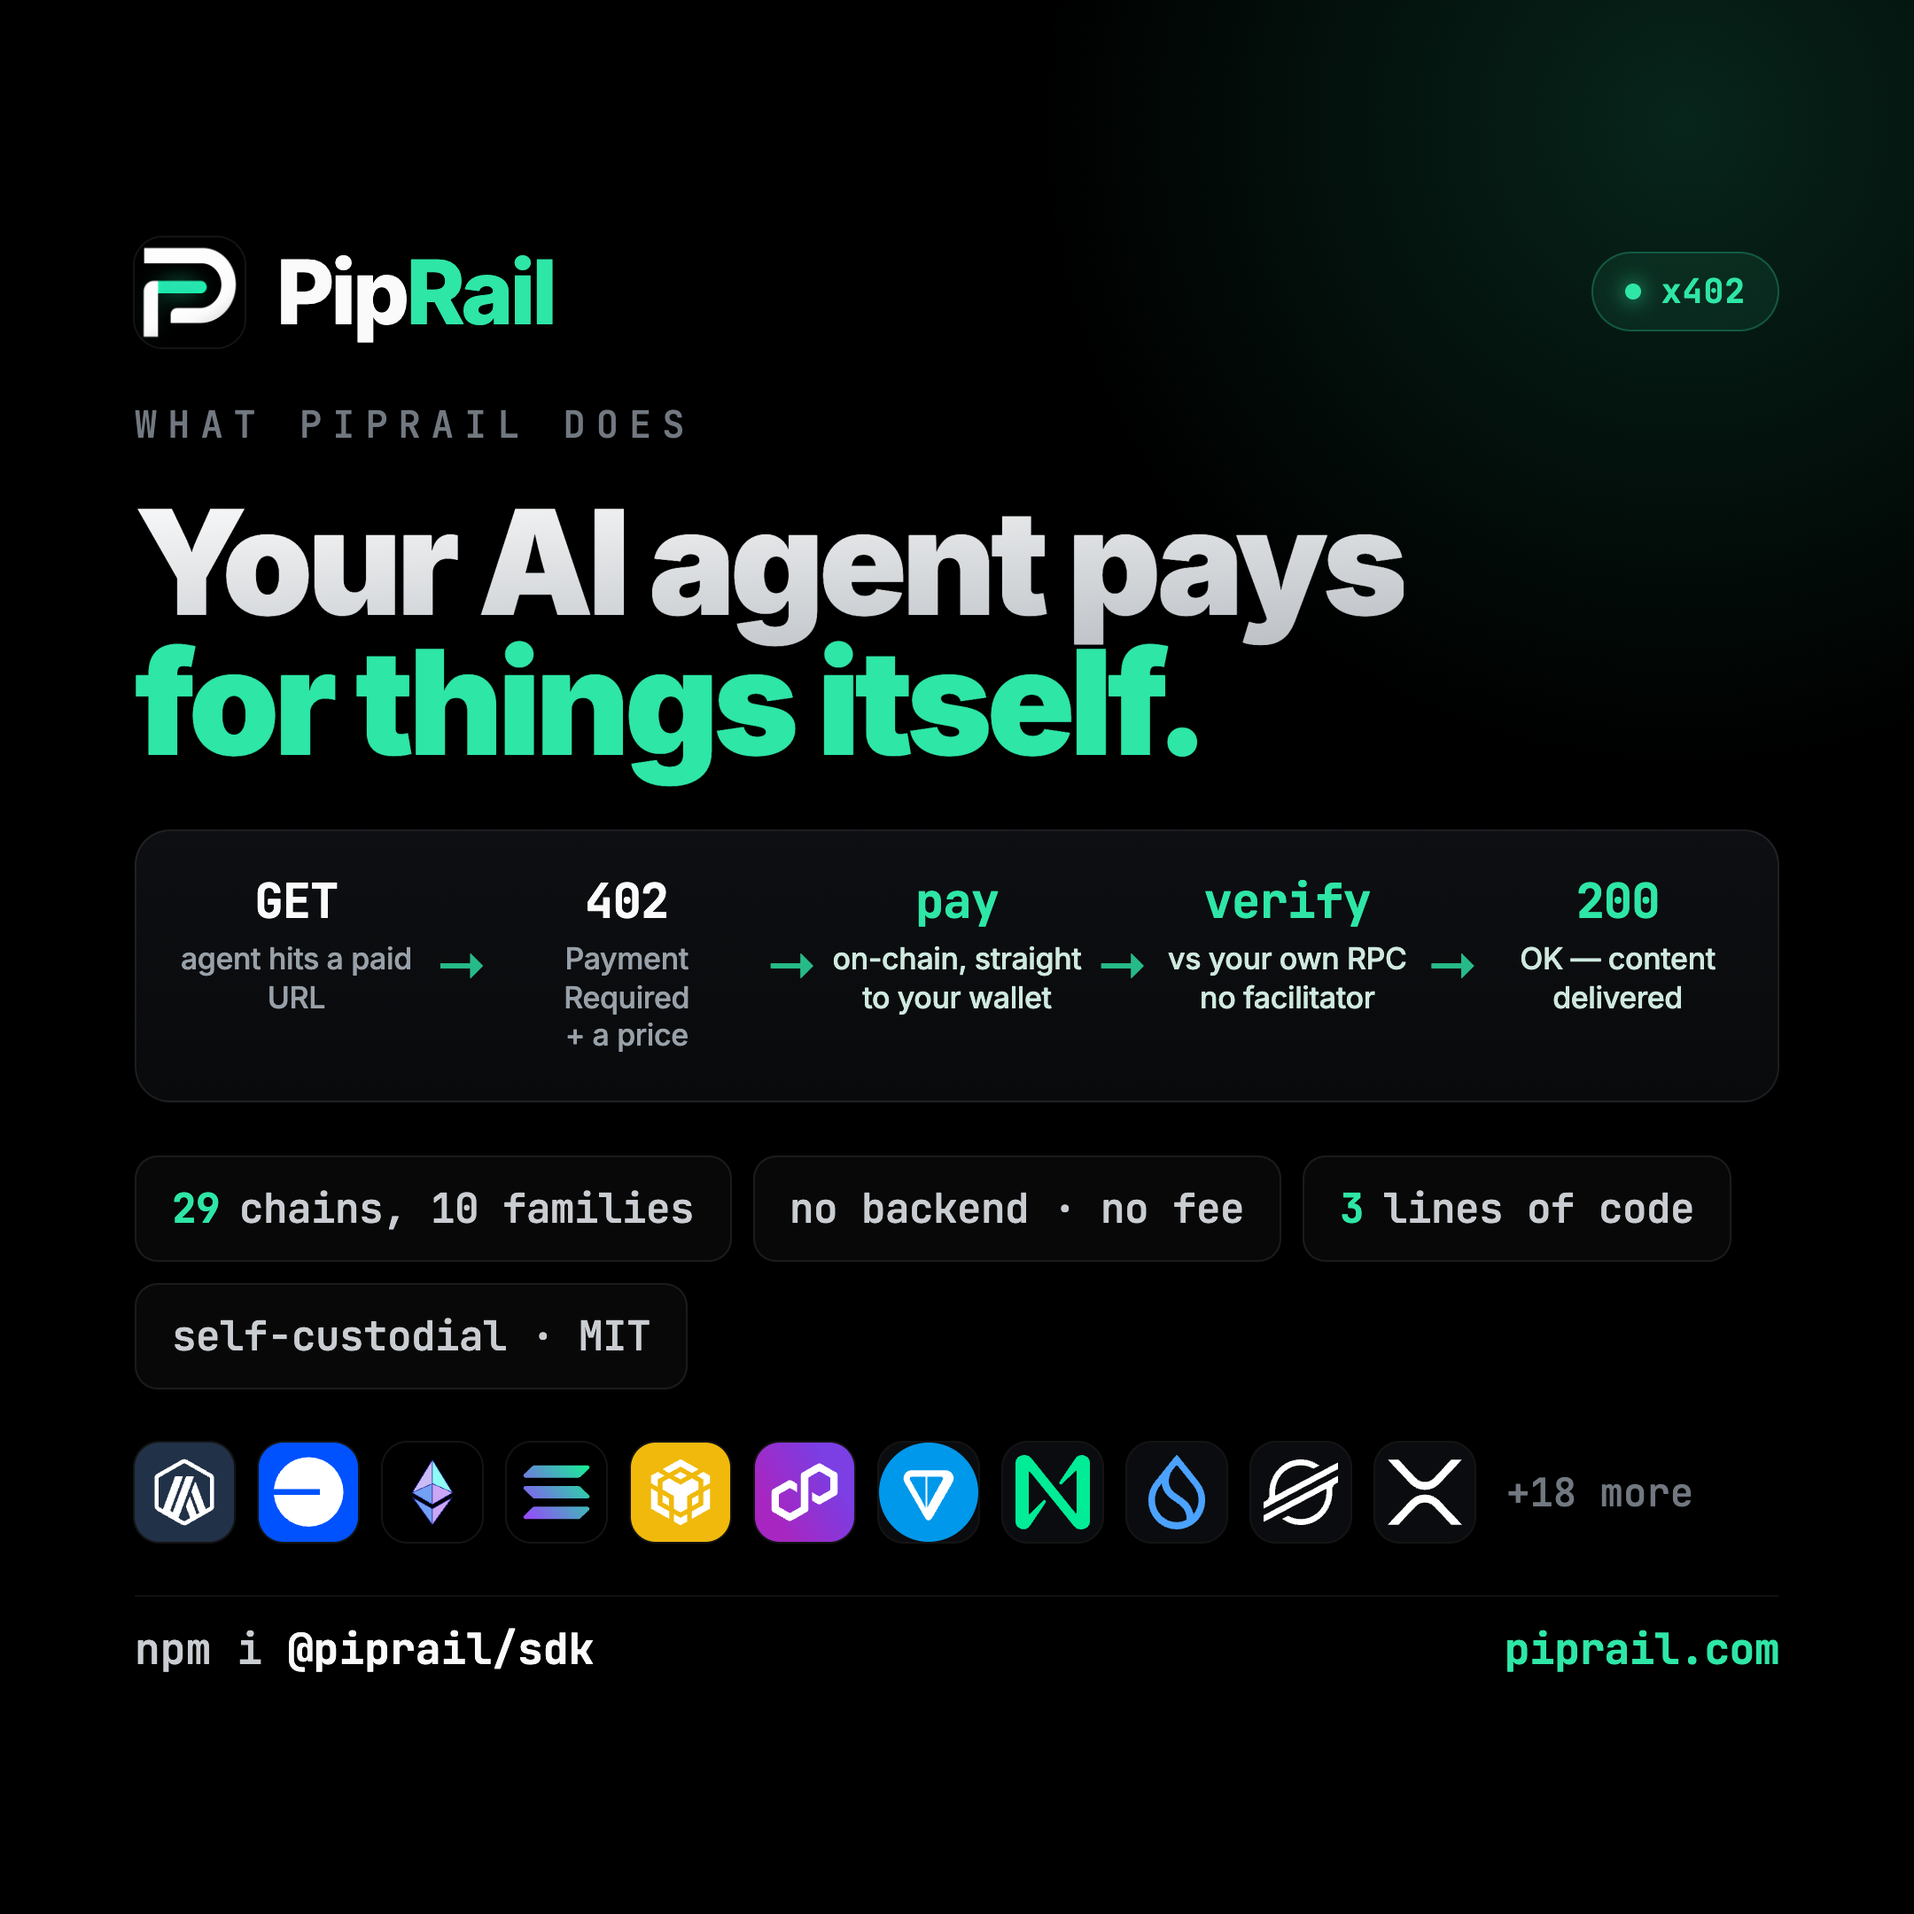
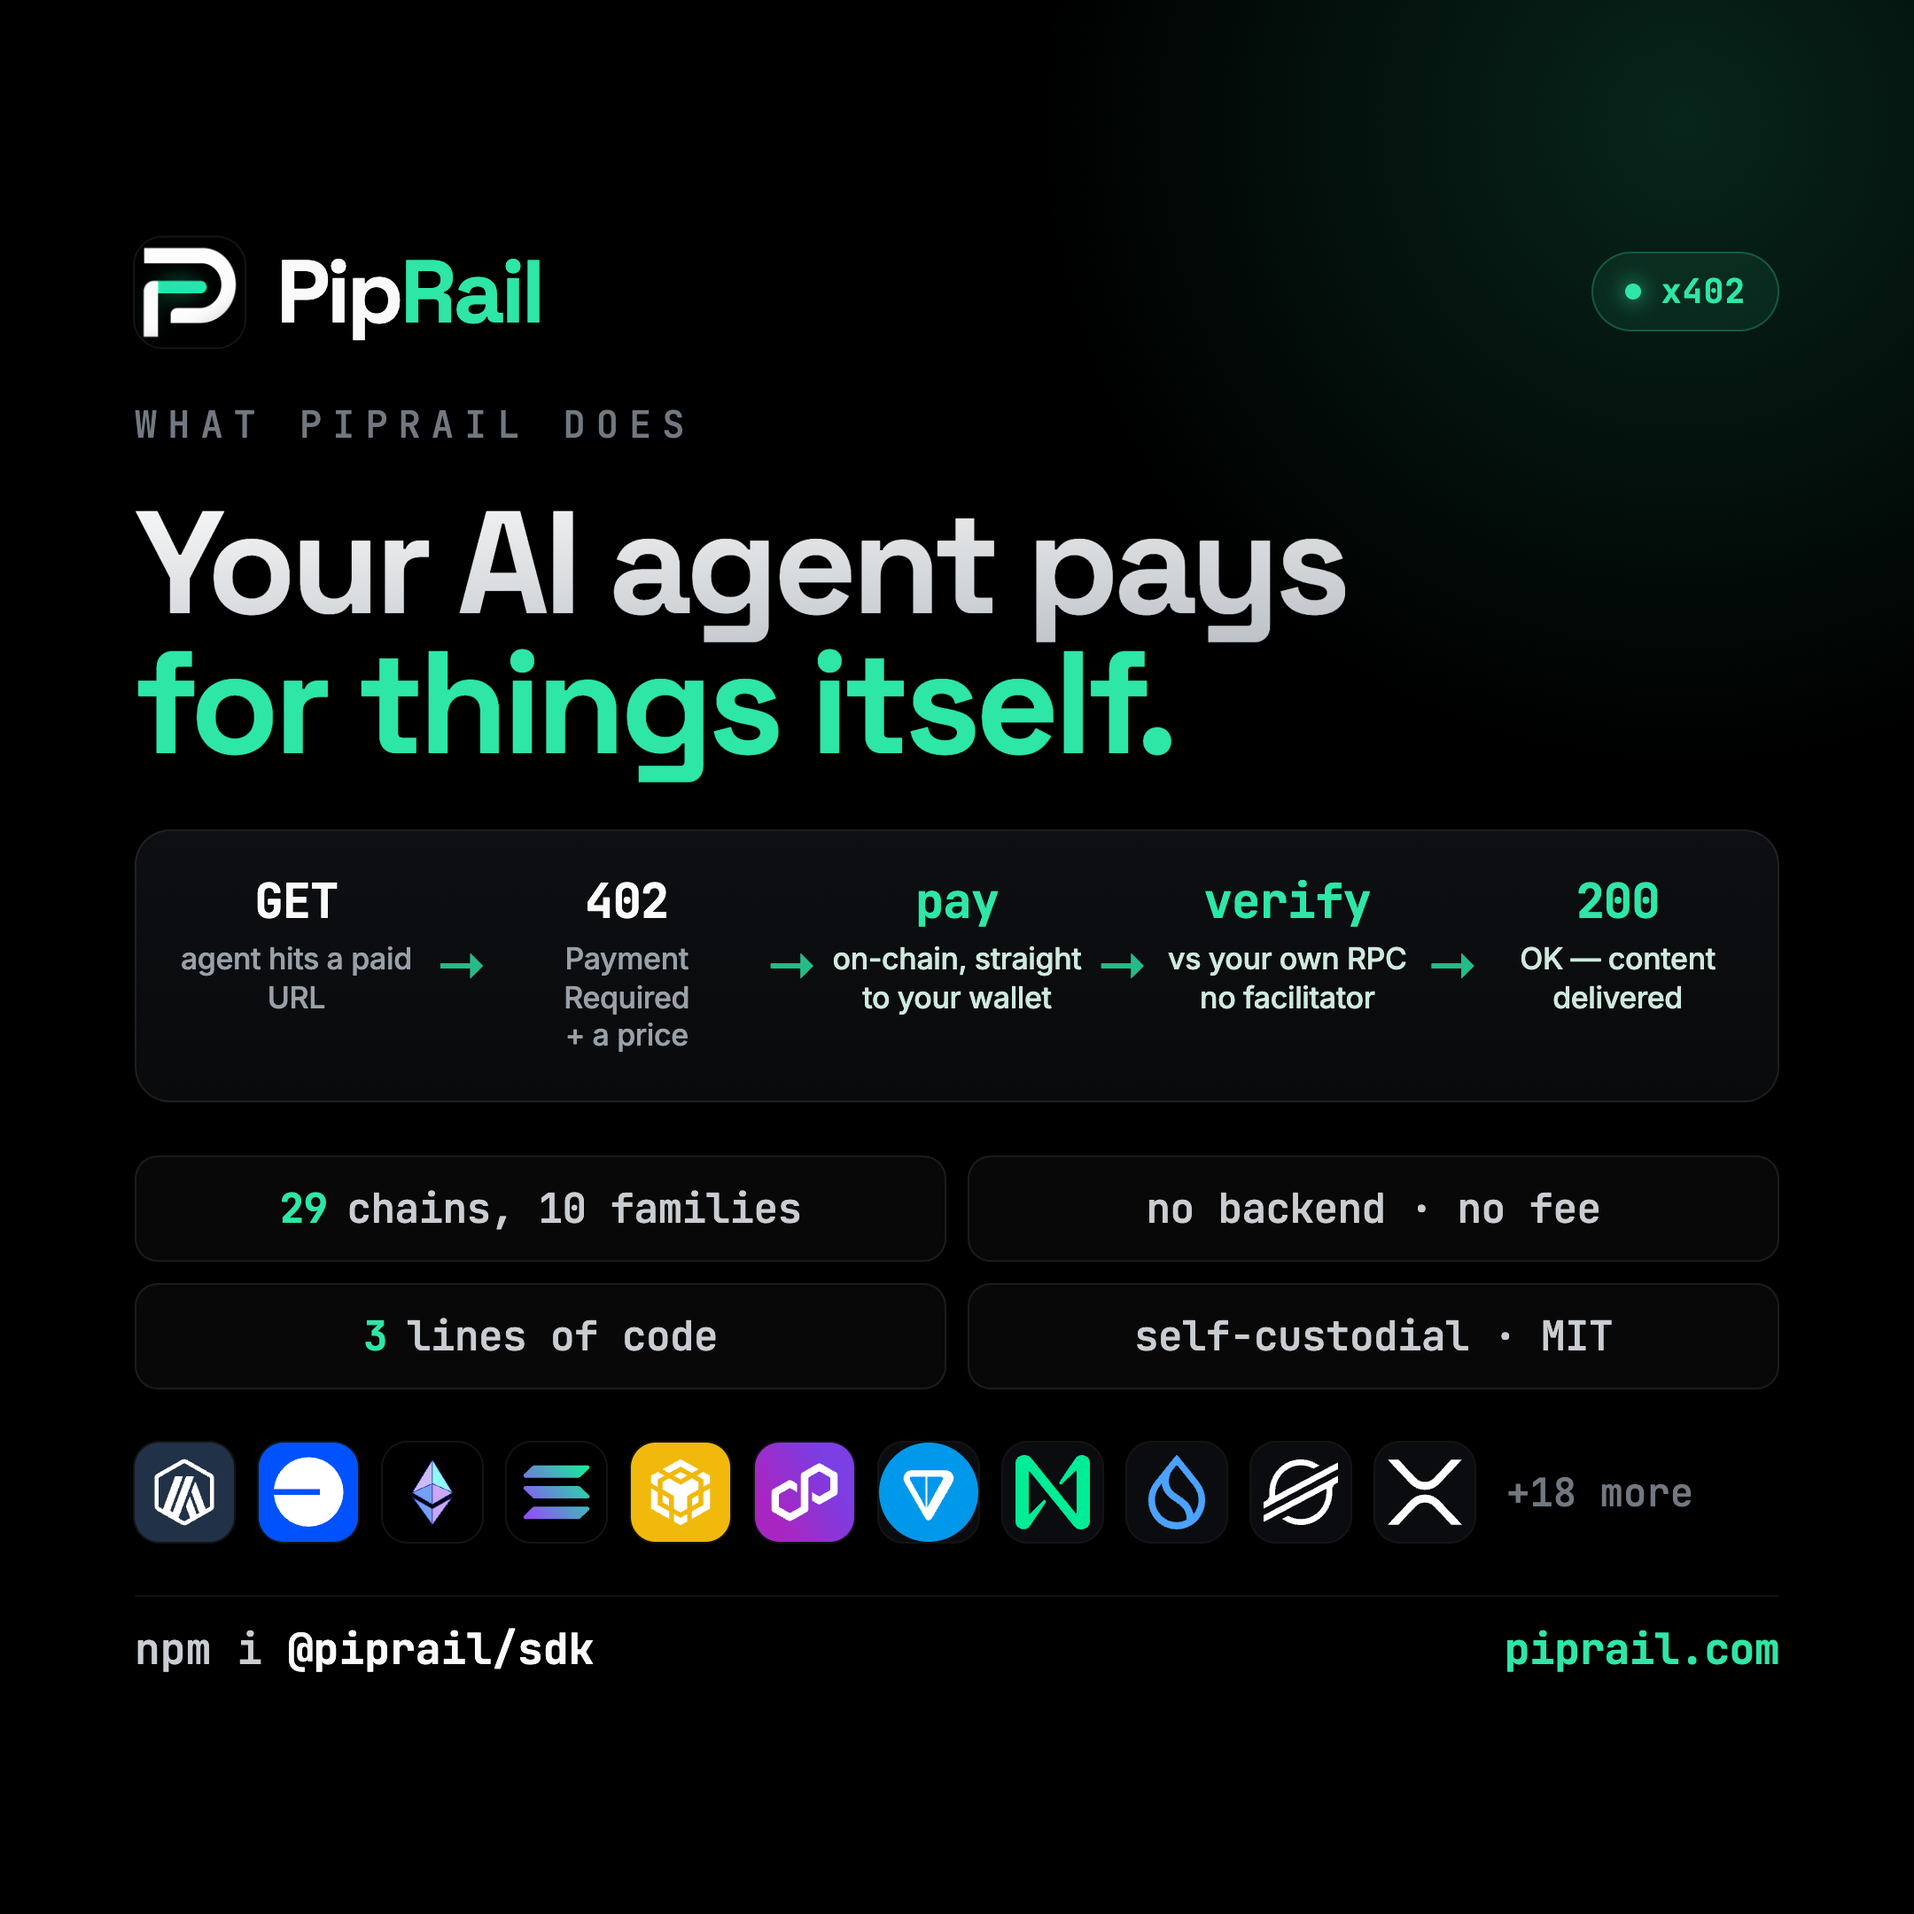
feat(x): the x-api skill, and the repo wiring it needs (#98)
* design(cards): add the live-402 terminal card, fix the explainer chip row

Two LinkedIn posts needed images, and on a claim-making post an image is
evidence or it is nothing.

post-402-terminal is the evidence one. Every byte in the window was captured
from piprail.com/x402/demo with `curl -i`, so the card does not assert that a
live 402 exists, it shows one. The payTo address is left out and the elision is
labelled outside the window: the response really does carry one, but a wallet
address in a post from a crypto domain is the shape LinkedIn's audience has
been trained to report, and an unlabelled trim would make the card read as a
complete response when it is not.

post-explainer had a real layout defect. Four chips in a wrapping flex row came
out 3 + 1, and an orphan on its own line reads as an accident rather than a
block. A 2x2 grid says "these are the four facts".

Both are 1080 square, which LinkedIn accepts unchanged.

* feat(x): the x-api skill, and the repo wiring it needs

Posting to X from this machine over the official v2 API, in the same shape as
the LinkedIn skill: dry run by default, no scheduler, a human types --publish.
The skill itself lives under the gitignored .claude/; what lands in git is the
credential map, the ignore rules and the npm scripts.

Researched against docs.x.com on 2026-09-02 rather than from memory, because
the API changed materially in February 2026 and most of what is written about
it is now wrong:
[…]

diff --git a/.claude/skills/branding/design/social/post-cards/post-402-terminal.html b/.claude/skills/branding/design/social/post-cards/post-402-terminal.html
@@ -1,0 +1,129 @@
+<!doctype html><html><head><meta charset="utf-8">
+<!--
+  post-402-terminal — the real 402 from piprail.com/x402/demo, as a terminal card.
+
+  🔴 THIS IS EVIDENCE, NOT DECORATION, AND THE DISTINCTION IS THE WHOLE POINT.
+  linkedin-page/POSTING.md: on a claim-making post an image is evidence or it is
+  nothing, and a generated brand graphic next to a checkable claim costs trust,
+  because the reader can see you had the option to show the real thing. Every
+  byte in the window below was captured with `curl -i` on 2026-09-02.
+
+  🔴 THE payTo ADDRESS IS DELIBERATELY ABSENT. The response really does carry
+  one and it is public on our own site. It is left out because the outreach
+  guards' first rule is structural: a wallet address in unsolicited content from
+  a crypto domain is byte-for-byte the shape of the scam every reader has been
+  trained to report, and LinkedIn's audience is not crypto native. The elision
+  is LABELLED, outside the window, so the card never reads as a complete
+  response.
+
+  Render: node render.mjs 402-terminal
+-->
+<style>
+@import url('https://fonts.googleapis.com/css2?family=Inter:wght@400;500;600;700&family=Space+Grotesk:wght@500;600;700&family=JetBrains+Mono:wght@400;500;600;700&display=swap');
+* { margin:0; padding:0; box-sizing:border-box; }
+:root { --accent:#2ee6a6; --bg:#0a0b0c; --muted:#8d959e; --amber:#e3b25c; }
+html,body { width:1080px; height:1080px; }
+body { background:var(--bg); color:#fff; font-family:'Inter',sans-serif; position:relative;
+       overflow:hidden; display:flex; flex-direction:column; }
+
+/* Ambience. One emerald whisper behind the window, a faint grid, a vignette.
+   Contrast, not glow: the restraint is the brand. */
+.glow { position:absolute; width:1150px; height:1150px; border-radius:50%; left:26%; top:-40%;
+  background:radial-gradient(circle, rgba(46,230,166,0.14) 0%, rgba(46,230,166,0.04) 44%, rgba(0,0,0,0) 70%); }
+.grid { position:absolute; inset:0;
+  background-image:linear-gradient(rgba(255,255,255,0.03) 1px,transparent 1px),linear-gradient(90deg,rgba(255,255,255,0.03) 1px,transparent 1px);
+  background-size:54px 54px;
+  -webkit-mask-image:radial-gradient(ellipse at 50% 26%, #000 0%, transparent 70%);
+          mask-image:radial-gradient(ellipse at 50% 26%, #000 0%, transparent 70%); }
+.vig { position:absolute; inset:0; box-shadow:inset 0 0 260px 90px rgba(0,0,0,0.6); }
+
+header { position:relative; z-index:2; padding:52px 60px 0; }
+.top { display:flex; align-items:center; justify-content:space-between; }
+.lock { display:flex; align-items:center; gap:14px; }
+.lock img { width:42px; height:42px; }
+.lock .wm { font-family:'Space Grotesk',sans-serif; font-weight:700; font-size:29px; letter-spacing:-0.02em; }
+.pill { display:inline-flex; align-items:center; gap:9px; padding:8px 16px; border-radius:999px;
+        border:1px solid rgba(46,230,166,0.28); background:rgba(46,230,166,0.09);
+        font-family:'JetBrains Mono',monospace; font-size:16px; color:var(--accent); }
+.pill b { width:7px; height:7px; border-radius:50%; background:var(--accent);
+          box-shadow:0 0 12px 2px rgba(46,230,166,0.6); }
+
+h1 { margin-top:28px; font-family:'Space Grotesk',sans-serif; font-weight:600; font-size:50px;
+     line-height:1.06; letter-spacing:-0.028em; }
+h1 em { font-style:normal; color:var(--accent); }
+.sub { margin-top:13px; color:var(--muted); font-size:19px; }
+
+/* The window. A real terminal has depth: a hairline top highlight, a dark well,
+   and a shadow that sits it above the canvas. */
+.term { position:relative; z-index:2; margin:30px 60px 0; border-radius:18px;
+        border:1px solid rgba(255,255,255,0.11); overflow:hidden;
+        background:linear-gradient(180deg, rgba(255,255,255,0.045) 0%, rgba(255,255,255,0.018) 120px, rgba(255,255,255,0.012) 100%);
+        box-shadow:0 30px 70px rgba(0,0,0,0.55), inset 0 1px 0 rgba(255,255,255,0.07); }
+.bar { display:flex; align-items:center; gap:9px; padding:14px 20px;
+       border-bottom:1px solid rgba(255,255,255,0.075); background:rgba(255,255,255,0.03); }
+.bar i { width:11px; height:11px; border-radius:50%; display:block; background:rgba(255,255,255,0.16); }
+.bar .t { flex:1; text-align:center; margin-right:46px; font-family:'JetBrains Mono',monospace;
+          font-size:15px; color:rgba(255,255,255,0.34); letter-spacing:0.02em; }
+pre { padding:24px 28px 24px; font-family:'JetBrains Mono',monospace; font-size:18.5px;
+      line-height:1.6; white-space:pre-wrap; word-break:break-word; }
+.c { color:rgba(255,255,255,0.34); }   /* prompt */
+.k { color:#eef1f3; }                  /* keys and headers */
+.s { color:var(--accent); }            /* string values */
+.n { color:var(--amber); }             /* numbers */
+.d { color:#69707a; }                  /* punctuation */
+/* The status line is the whole point of the card, so it gets the one flourish. */
+.status { display:inline-block; padding:1px 12px; border-radius:7px; color:var(--amber);
+          background:rgba(227,178,92,0.13); border:1px solid rgba(227,178,92,0.3); }
+
+footer { position:relative; z-index:2; margin-top:auto; padding:24px 60px 48px; }
+.elide { font-family:'JetBrains Mono',monospace; font-size:15px; color:rgba(255,255,255,0.3);
+         margin-bottom:20px; }
+.row { display:flex; align-items:center; justify-content:space-between; }
+.code { font-family:'JetBrains Mono',monospace; font-size:24px; color:#fff;
+        border:1px solid rgba(255,255,255,0.14); border-radius:12px; padding:14px 22px;
+        background:rgba(255,255,255,0.045); box-shadow:inset 0 1px 0 rgba(255,255,255,0.06); }
+.note { color:var(--muted); font-size:17.5px; text-align:right; line-height:1.55; }
+.note b { color:#dfe4e8; font-weight:500; }
+</style></head>
+<body>
+  <div class="glow"></div><div class="grid"></div><div class="vig"></div>
+
+  <header>
+    <div class="top">
+      <div class="lock"><img src="../../../../../../site/public/logo.png" alt=""><span class="wm">PipRail</span></div>
+      <span class="pill"><b></b>live on mainnet</span>
+    </div>
+    <h1>This is what a machine sees<br>when it hits a <em>paywall</em>.</h1>
+    <div class="sub">Real response from piprail.com, captured 2 September 2026.</div>
+  </header>
+
+  <div class="term">
+    <div class="bar"><i></i><i></i><i></i><span class="t">bash</span></div>
+<pre><span class="c">$</span> curl -i https://piprail.com/x402/demo
+
+<span class="k">HTTP/2</span> <span class="status">402</span>  <span class="d">Payment Required</span>
+<span class="k">content-type</span><span class="d">:</span> application/json
+
+<span class="d">{</span>
+  <span class="k">"x402Version"</span><span class="d">:</span> <span class="n">2</span><span class="d">,</span>
+  <span class="k">"resource"</span><span class="d">: {</span>
+    <span class="k">"description"</span><span class="d">:</span> <span class="s">"PipRail live x402 demo,
+                    pay $0.01 USDC on Base to unlock."</span>
+  <span class="d">},</span>
+  <span class="k">"accepts"</span><span class="d">: [{</span>
+    <span class="k">"scheme"</span><span class="d">:</span>  <span class="s">"exact"</span><span class="d">,</span>
+    <span class="k">"network"</span><span class="d">:</span> <span class="s">"eip155:8453"</span><span class="d">,</span>
+    <span class="k">"amount"</span><span class="d">:</span>  <span class="s">"10000"</span><span class="d">,</span>
+    <span class="k">"symbol"</span><span class="d">:</span>  <span class="s">"USDC"</span>
+  <span class="d">}]</span>
+<span class="d">}</span></pre>
+  </div>
+
+  <footer>
+    <div class="elide">payTo address omitted from this card. Everything else is verbatim.</div>
+    <div class="row">
+      <span class="code">npm i @piprail/sdk</span>
+      <span class="note"><b>No account. No API key.</b><br>No facilitator. No fee.</span>
+    </div>
+  </footer>
+</body></html>

diff --git a/.claude/skills/branding/design/social/post-cards/post-explainer.html b/.claude/skills/branding/design/social/post-cards/post-explainer.html
@@ -65,9 +65,12 @@
   .arr { display: flex; align-items: center; color: #2ee6a6; font-size: 30px; font-weight: 800; opacity: 0.8; }
 
   /* facts */
-  .facts { display: flex; flex-wrap: wrap; gap: 12px; }
+  /* 🔴 A 2x2 GRID, not a wrapping flex row. Flex wrapped these four as 3 + 1,
+     and the orphan on its own line reads as a layout accident rather than a
+     deliberate block. Four equal cells say "these are the four facts". */
+  .facts { display: grid; grid-template-columns: repeat(2, 1fr); gap: 12px; }
   .chip {
-    display: flex; align-items: center; gap: 11px;
+    display: flex; align-items: center; justify-content: center; gap: 11px;
     font-family: 'JetBrains Mono', monospace; font-weight: 500; font-size: 23px; color: #c9cdd1;
     background: rgba(255,255,255,0.03); border: 1px solid rgba(255,255,255,0.08);
     border-radius: 13px; padding: 14px 20px; letter-spacing: -0.3px;
